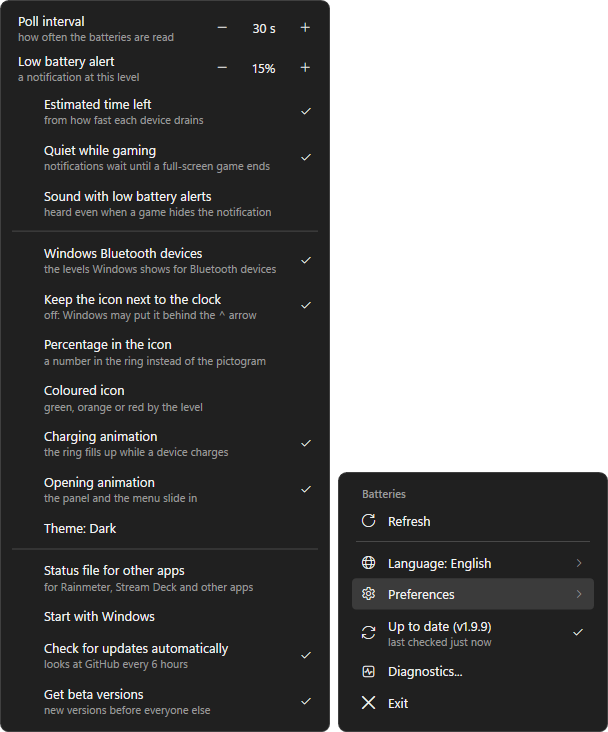
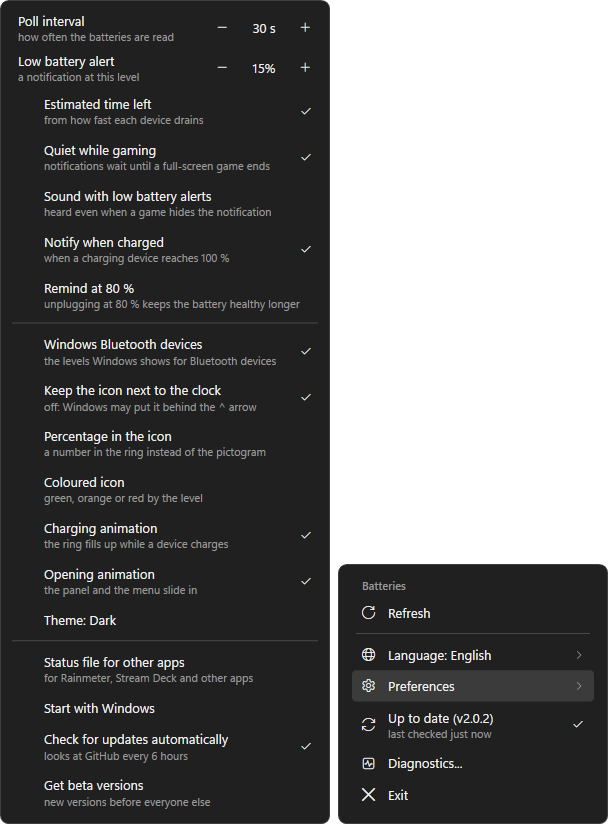
v2.0.3: Remind at 80 % (Preferences, off by default); the charging animation rests while the screen is locked or a full-screen game is in front; a smaller log.

Changed region(s): [[0.0312, 0.0, 0.5, 0.9918], [0.5312, 0.6311, 1.0, 0.9918], [0.4062, 0.0301, 0.4688, 0.1202]]

diff --git a/core/Batteries.cs b/core/Batteries.cs
@@ -44,7 +44,7 @@ namespace SwarlexBattery
         readonly string lastFile = Path.Combine(Program.CacheDir, "state", "gadgets", "hid-last.json");
         Dictionary<string, Dictionary<string, object>> last = new Dictionary<string, Dictionary<string, object>>();
         List<Gadget> slow = new List<Gadget>(); DateTime slowAt = DateTime.MinValue;
-        string lastSeen;
+        string lastSeen; readonly HashSet<string> loggedStates = new HashSet<string>();
 
         // ------------------------------------------------------------ estimated time left
         // Per device, the level against the time it was awake and on battery since its last charge. Gaps
@@ -377,11 +377,15 @@ namespace SwarlexBattery
             {
                 lastSeen = seen;
                 Log.Write("HID devices: " + (order.Count == 0 ? "none" : string.Join("; ", order.Select(i => byId[i].ToString()))));
-                // devices of supported vendors that gave no reading at all: their collections tell which protocol fits
-                var quiet = Hid.LastList.Where(d => !byId.Values.Any(r => r.Level >= 0 && r.Source == SourceOf(d.Vid))).Select(d => d.ToString()).Distinct().ToList();
-                if (quiet.Count > 0) Log.Write("HID unread: " + string.Join("; ", quiet.Take(40)));
-                if (Hid.Others.Length > 0) Log.Write("HID other vendors: " + string.Join("; ", Hid.Others.Take(40)));
-                if (order.Any(i => byId[i].Level < 0) || quiet.Count > 0) lock (Hid.Trace) Log.Write("HID trace: " + string.Join(" | ", Hid.Trace.Skip(Math.Max(0, Hid.Trace.Count - 12))));
+                // the long lines below once per state and run: a mouse that naps and wakes flips between two states all day
+                if (loggedStates.Count < 50 && loggedStates.Add(seen))
+                {
+                    // devices of supported vendors that gave no reading at all: their collections tell which protocol fits
+                    var quiet = Hid.LastList.Where(d => !byId.Values.Any(r => r.Level >= 0 && r.Source == SourceOf(d.Vid))).Select(d => d.ToString()).Distinct().ToList();
+                    if (quiet.Count > 0) Log.Write("HID unread: " + string.Join("; ", quiet.Take(40)));
+                    if (Hid.Others.Length > 0) Log.Write("HID other vendors: " + string.Join("; ", Hid.Others.Take(40)));
+                    if (order.Any(i => byId[i].Level < 0) || quiet.Count > 0) lock (Hid.Trace) Log.Write("HID trace: " + string.Join(" | ", Hid.Trace.Skip(Math.Max(0, Hid.Trace.Count - 12))));
+                }
             }
 
             foreach (var id in order)
@@ -507,6 +511,7 @@ namespace SwarlexBattery
         }
 
         static readonly HashSet<string> chargingBelowFull = new HashSet<string>();   // devices seen charging and not yet full
+        static readonly HashSet<string> chargingBelow80 = new HashSet<string>();     // the same, for "Remind at 80 %"
 
         public static Snapshot Build(List<Gadget> gadgets)
         {
@@ -542,6 +547,12 @@ namespace SwarlexBattery
                 else if (g.Online && g.Pct >= 100 && chargingBelowFull.Remove(g.Id) && Config.Bool("fullNotify", true))
                     snap.Notify.Add(new Notice { Key = "full-" + g.Id, Title = Strings.T("fullTitle", g.Name), Body = Strings.T("fullBody"), Info = true });
                 else if (!g.Charging) chargingBelowFull.Remove(g.Id);   // unplugged before it was full
+                // "Remind at 80 %" (Preferences, off by default): lithium cells last longer when they are not kept full;
+                // once per charge, when a device seen charging below 80 % gets there
+                if (g.Online && g.Charging && g.Pct < 80 && !g.Approx) chargingBelow80.Add(g.Id);
+                else if (g.Online && g.Charging && g.Pct >= 80 && chargingBelow80.Remove(g.Id) && Config.Bool("limitNotify", false))
+                    snap.Notify.Add(new Notice { Key = "limit-" + g.Id, Title = Strings.T("limitTitle", g.Name, g.Pct), Body = Strings.T("limitBody"), Info = true });
+                else if (!g.Charging) chargingBelow80.Remove(g.Id);
             }
             // devices that give no level: name and reason only (no number, no bar, never in the tray icon)
             foreach (var g in gadgets.Where(x => x.Hint != null))

diff --git a/tests/Tests.cs b/tests/Tests.cs
@@ -291,6 +291,25 @@ namespace SwarlexBatteryTests
             Equal(0, full(new List<Gadget> { G("c3", "gamepad", 100, true, true) }), "coarse levels: no 'charged' notice");
             Equal(0, full(new List<Gadget> { G("c4", "mouse", 60, true) }) + full(new List<Gadget> { G("c4", "mouse", 61) }) + full(new List<Gadget> { G("c4", "mouse", 100) }),
                   "unplugged before it was full: no notice later");
+
+            // "Remind at 80 %": off by default, once per charge when it is on
+            Func<List<Gadget>, int> limit = l => BatteryReader.Build(l).Notify.Count(n => n.Key.StartsWith("limit-"));
+            Equal(0, limit(new List<Gadget> { G("r1", "mouse", 50, true) }) + limit(new List<Gadget> { G("r1", "mouse", 85, true) }), "80 % reminder: off by default");
+            object keep;
+            bool had = Config.Data.TryGetValue("limitNotify", out keep);
+            try
+            {
+                Config.Data["limitNotify"] = true;
+                Equal(0, limit(new List<Gadget> { G("r2", "mouse", 79, true) }), "80 % reminder: not below 80 %");
+                var r = BatteryReader.Build(new List<Gadget> { G("r2", "mouse", 81, true) }).Notify.FirstOrDefault(x => x.Key == "limit-r2");
+                Check(r != null && r.Info && r.Pct < 0 && r.Title.Contains("81"), "80 % reminder: once at 80 %, as information, with the level");
+                Equal(0, limit(new List<Gadget> { G("r2", "mouse", 90, true) }), "80 % reminder: not again in the same charge");
+                Equal(0, limit(new List<Gadget> { G("r3", "mouse", 90, true) }), "80 % reminder: plugged in above 80 %: no notice");
+                Equal(0, limit(new List<Gadget> { G("r4", "gamepad", 50, true, true) }) + limit(new List<Gadget> { G("r4", "gamepad", 100, true, true) }), "80 % reminder: coarse levels: no notice");
+                Equal(0, limit(new List<Gadget> { G("r5", "mouse", 70, true) }) + limit(new List<Gadget> { G("r5", "mouse", 70) }) + limit(new List<Gadget> { G("r5", "mouse", 85, true) }),
+                      "80 % reminder: unplugged and plugged in again above 80 %: no notice");
+            }
+            finally { if (had) Config.Data["limitNotify"] = keep; else Config.Data.Remove("limitNotify"); }
         }
 
         static void NoLevelNote()

diff --git a/core/Host.cs b/core/Host.cs
@@ -55,8 +55,8 @@ namespace SwarlexBattery
             // locked: nobody looks at the tray, so the devices are left alone; unlocked or woken up: read at once
             SystemEvents.SessionSwitch += (s, e) => ui.BeginInvoke(new Action(() =>
             {
-                if (e.Reason == SessionSwitchReason.SessionLock) locked = true;
-                else if (e.Reason == SessionSwitchReason.SessionUnlock) { locked = false; PollSoon(); }
+                if (e.Reason == SessionSwitchReason.SessionLock) { locked = true; tray.Pause(true); }
+                else if (e.Reason == SessionSwitchReason.SessionUnlock) { locked = false; tray.Pause(Win.ForegroundIsFullscreen()); PollSoon(); }
             }));
             SystemEvents.PowerModeChanged += (s, e) => { if (e.Mode == PowerModes.Resume) ui.BeginInvoke(new Action(() => PollSoon())); };
             // once a second is enough for everything below (the closest deadline is a re-read 1.5 s after a plug-in),
@@ -96,7 +96,9 @@ namespace SwarlexBattery
                 bool light = TrayRenderer.IsLightTaskbar();
                 if (light != TrayRenderer.LightTaskbar) { TrayRenderer.LightTaskbar = light; tray.Repaint(); }
                 // notifications held back while a full-screen app was in front: shown once it is gone
-                if (held.Count > 0 && !Gaming()) ShowHeld();
+                bool fullscreen = Win.ForegroundIsFullscreen();
+                if (held.Count > 0 && !(fullscreen && Config.Bool("quietWhileGaming", true))) ShowHeld();
+                tray.Pause(locked || fullscreen);
             }
         }
 

diff --git a/core/App.cs b/core/App.cs
@@ -123,8 +123,23 @@ namespace SwarlexBattery
 
         public static void Write(string msg)
         {
-            lock (Sync) { try { File.AppendAllText(file, DateTime.UtcNow.ToString("yyyy-MM-dd HH:mm:ss'Z' ") + msg + Environment.NewLine, new UTF8Encoding(false)); } catch { } }
+            lock (Sync)
+            {
+                try
+                {
+                    File.AppendAllText(file, DateTime.UtcNow.ToString("yyyy-MM-dd HH:mm:ss'Z' ") + msg + Environment.NewLine, new UTF8Encoding(false));
+                    // the app runs for weeks: past 1 MB the newest quarter is kept (checked now and then, not on every line)
+                    if (++writes % 50 == 0 && new FileInfo(file).Length > 1024 * 1024)
+                    {
+                        var all = File.ReadAllText(file, Encoding.UTF8);
+                        int cut = all.IndexOf('\n', all.Length * 3 / 4);
+                        File.WriteAllText(file, cut < 0 ? "" : all.Substring(cut + 1), new UTF8Encoding(false));
+                    }
+                }
+                catch { }
+            }
         }
+        static int writes;
     }
 
     // config.default.json (embedded) merged with %APPDATA%\SwarlexBattery\config.json

diff --git a/core/Tray.cs b/core/Tray.cs
@@ -329,9 +329,13 @@ namespace SwarlexBattery
         System.Windows.Threading.DispatcherTimer anim; int frame;
         const int Frames = 14;                  // 10 filling + a short hold on full
 
+        // nobody sees the tray (locked, a full-screen game in front): the animation waits, nine wake-ups a second for nothing
+        bool paused;
+        public void Pause(bool on) { if (on == paused) return; paused = on; UpdateAnimation(); }
+
         public void UpdateAnimation()
         {
-            bool want = Config.Bool("chargeAnimation", true) && specs.Values.Any(s => s.RingCharging != null && s.RingCharging.Any(c => c));
+            bool want = !paused && Config.Bool("chargeAnimation", true) && specs.Values.Any(s => s.RingCharging != null && s.RingCharging.Any(c => c));
             if (want && anim == null)
             {
                 anim = new System.Windows.Threading.DispatcherTimer(System.Windows.Threading.DispatcherPriority.Background) { Interval = TimeSpan.FromMilliseconds(110) };

diff --git a/core/Flyout.cs b/core/Flyout.cs
@@ -616,6 +616,7 @@ namespace SwarlexBattery
             root.Children.Add(toggle(Strings.T("quietGaming"), "quietWhileGaming", true, "quietGamingNote", false));
             root.Children.Add(toggle(Strings.T("lowSound"), "lowSound", false, "lowSoundNote", false));
             root.Children.Add(toggle(Strings.T("fullNotify"), "fullNotify", true, "fullNotifyNote", false));
+            root.Children.Add(toggle(Strings.T("limitNotify"), "limitNotify", false, "limitNotifyNote", false));
             root.Children.Add(Separator());
             root.Children.Add(toggle(Strings.T("bluetoothOpt"), "plugins.gadgets.bluetooth", true, "bluetoothNote", false));
             root.Children.Add(toggle(Strings.T("pinIcon"), "alwaysShowInTray", true, "pinIconNote", false));

diff --git a/README.md b/README.md
@@ -47,7 +47,8 @@ device in the panel to rename it, give it another icon or hide it.
 - **Honest numbers:** a level is shown only when the device itself answered; levels are never made up. The
   time left is an estimate from how fast each device drains now, and says "about".
 - **Light:** one small C# program, about 10 MB of memory, no services, no vendor software.
-- **Low battery notifications**, quiet while a fullscreen game is running.
+- **Low battery notifications**, quiet while a fullscreen game is running; a note when a device is
+  charged, and optionally at 80 % to spare the battery.
 - **Updates itself** from this page when you click *Update* (SHA-256 checked).
 - **Light and dark** like your taskbar; **English, Turkish, German, Spanish and Italian**; free and open source (GPL-3.0).
 
@@ -116,7 +117,7 @@ published protocols. **Not working for you?** Right-click the tray icon > *Diagn
 <summary>Settings</summary>
 
 Right-click > *Preferences* has the poll interval and the low battery level (- / +), *Estimated time left*,
-*Quiet while gaming*, *Sound with low battery alerts*, *Windows Bluetooth devices*, *Keep the icon next to the
+*Quiet while gaming*, *Sound with low battery alerts*, *Notify when charged*, *Remind at 80 %*, *Windows Bluetooth devices*, *Keep the icon next to the
 clock*, *Percentage in the icon*, *Coloured icon*, the charging and opening animations,
 the theme, the status file, *Start with Windows* and the update settings; *Language* is in the menu. Right-click a device
 in the panel to rename it, choose its icon, give it its own low battery level or hide it; hidden devices come
@@ -132,7 +133,9 @@ devices*. All of it is kept in `%APPDATA%\SwarlexBattery\config.json`, which als
 | `"plugins": { "gadgets": { "interval": 60 } }` | seconds between battery reads (default 30; 5 while the panel is open) |
 | `"monochrome": false` | coloured icons |
 | `"quietWhileGaming": false` | notify during fullscreen apps too |
-| `"lowSound": true` | a sound with low battery alerts (also in the right-click menu) |
+| `"lowSound": true` | a sound with low battery alerts |
+| `"fullNotify": false` | no notification when a device is charged |
+| `"limitNotify": true` | a reminder when a charging device reaches 80 % |
 | `"update": { "check": false }` | no automatic update check |
 | `"statusFile": true` | write every level to `%APPDATA%\SwarlexBattery\status.json` for Rainmeter, Stream Deck or scripts |
 | `"plugins": { "gadgets": { "timeLeft": false } }` | no "time left" estimate |

diff --git a/docs/CHANGELOG.md b/docs/CHANGELOG.md
@@ -2,6 +2,16 @@
 
 All notable changes. Downloads: [Releases](https://github.com/swarlex/SwarlexBattery/releases).
 
+## 2.0.3
+### Added
+- **Remind at 80 %** (Preferences, off by default): a charging device that reaches 80 % says so once, as
+  lithium batteries last longer when they are not kept full.
+
+### Changed
+- The charging animation rests while the screen is locked or a full-screen game is in front.
+- The log grows less: the long device lines are written once per state, not each time a mouse naps and
+  wakes, and a log past 1 MB is trimmed while the app runs, not only at start.
+
 ## 2.0.2
 ### Added
 - **Notify when charged** (Preferences, on by default): when a device that was charging reaches 100 %, a
